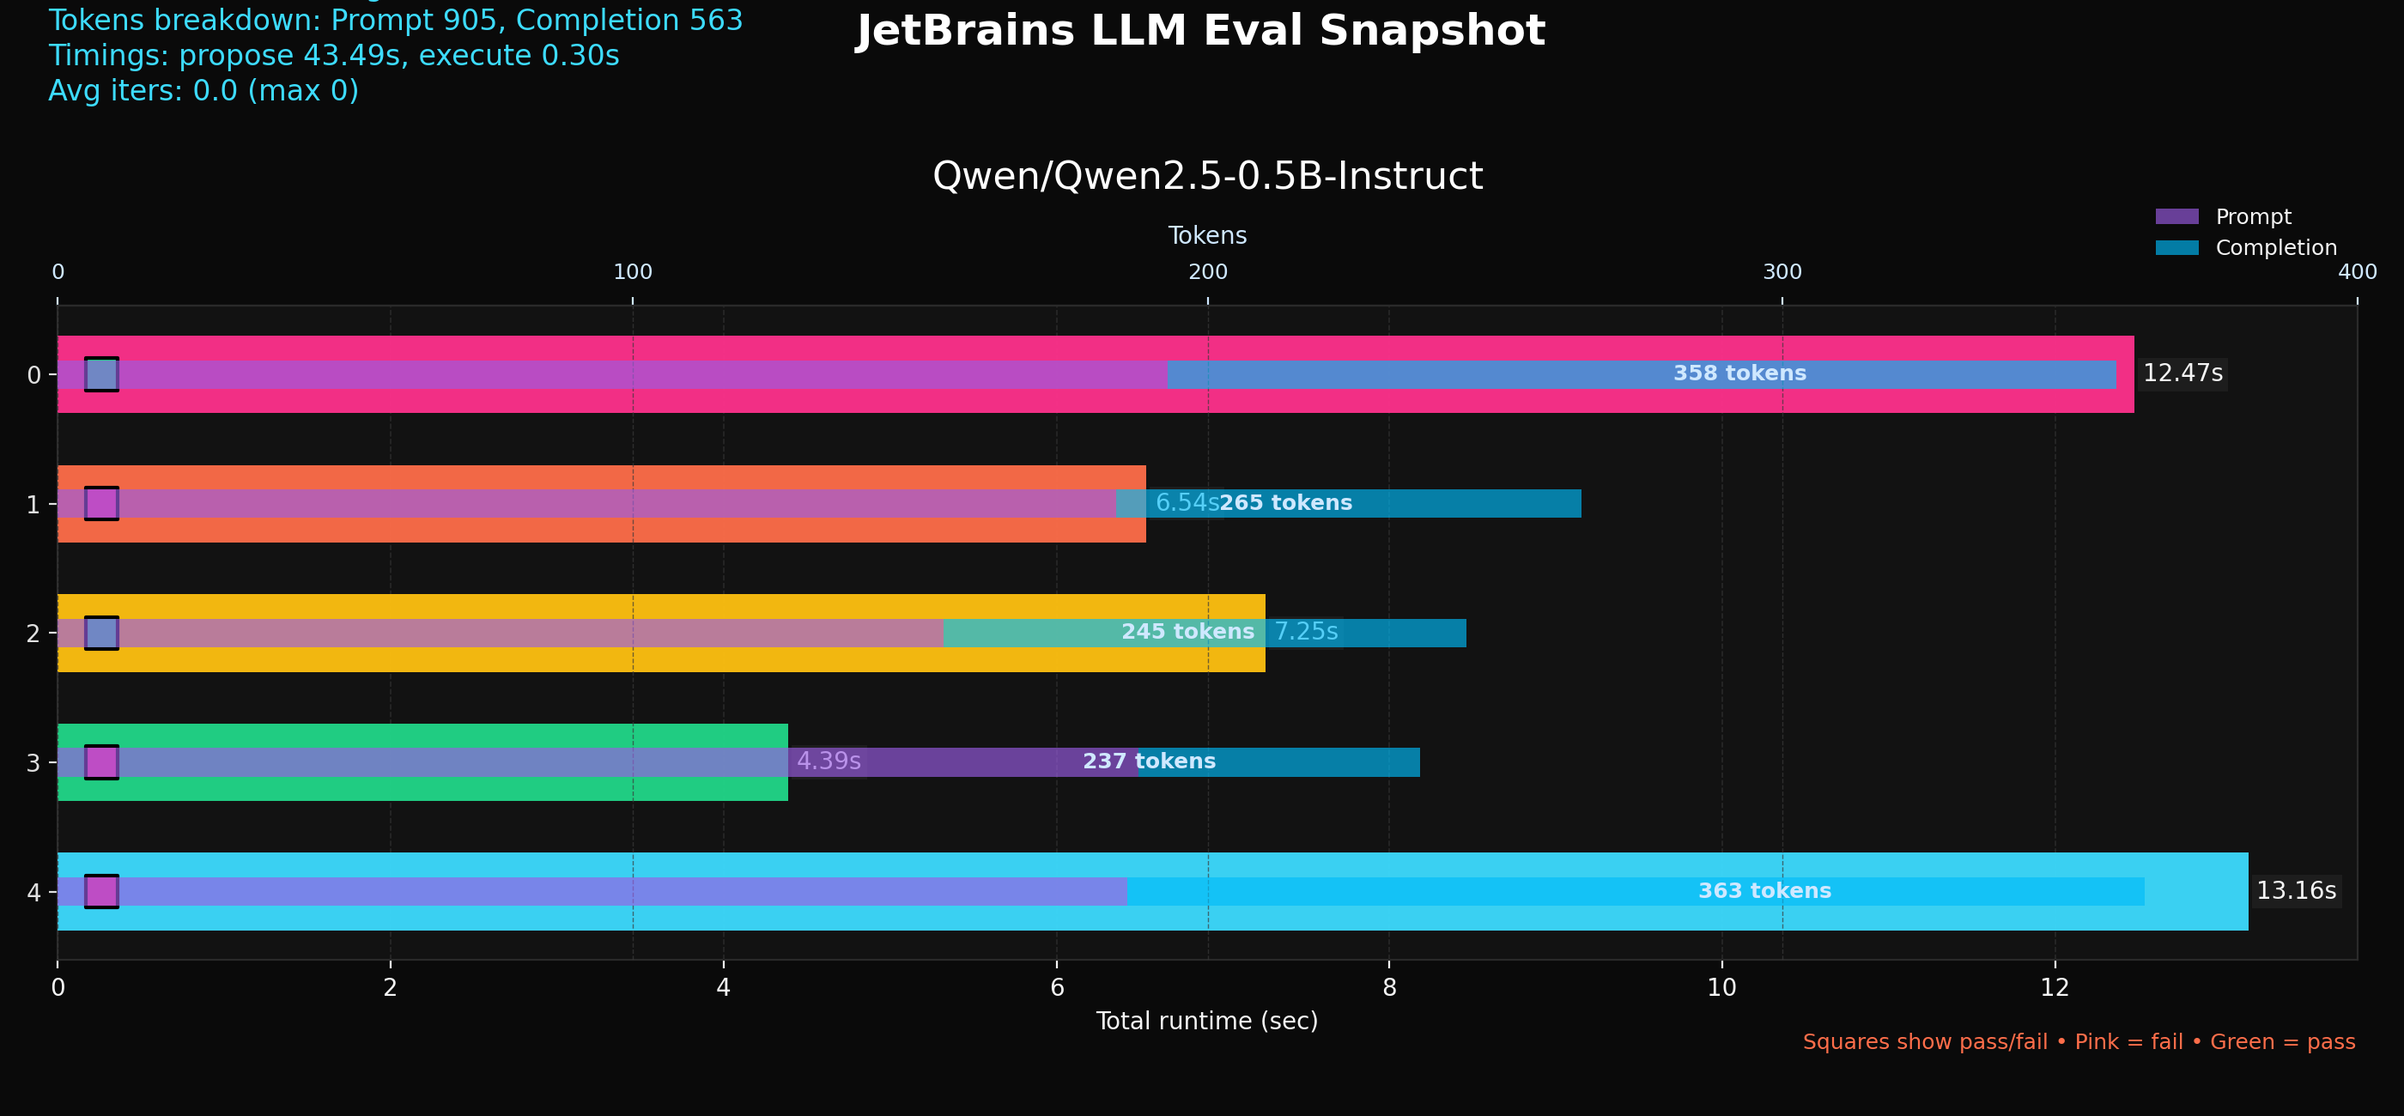
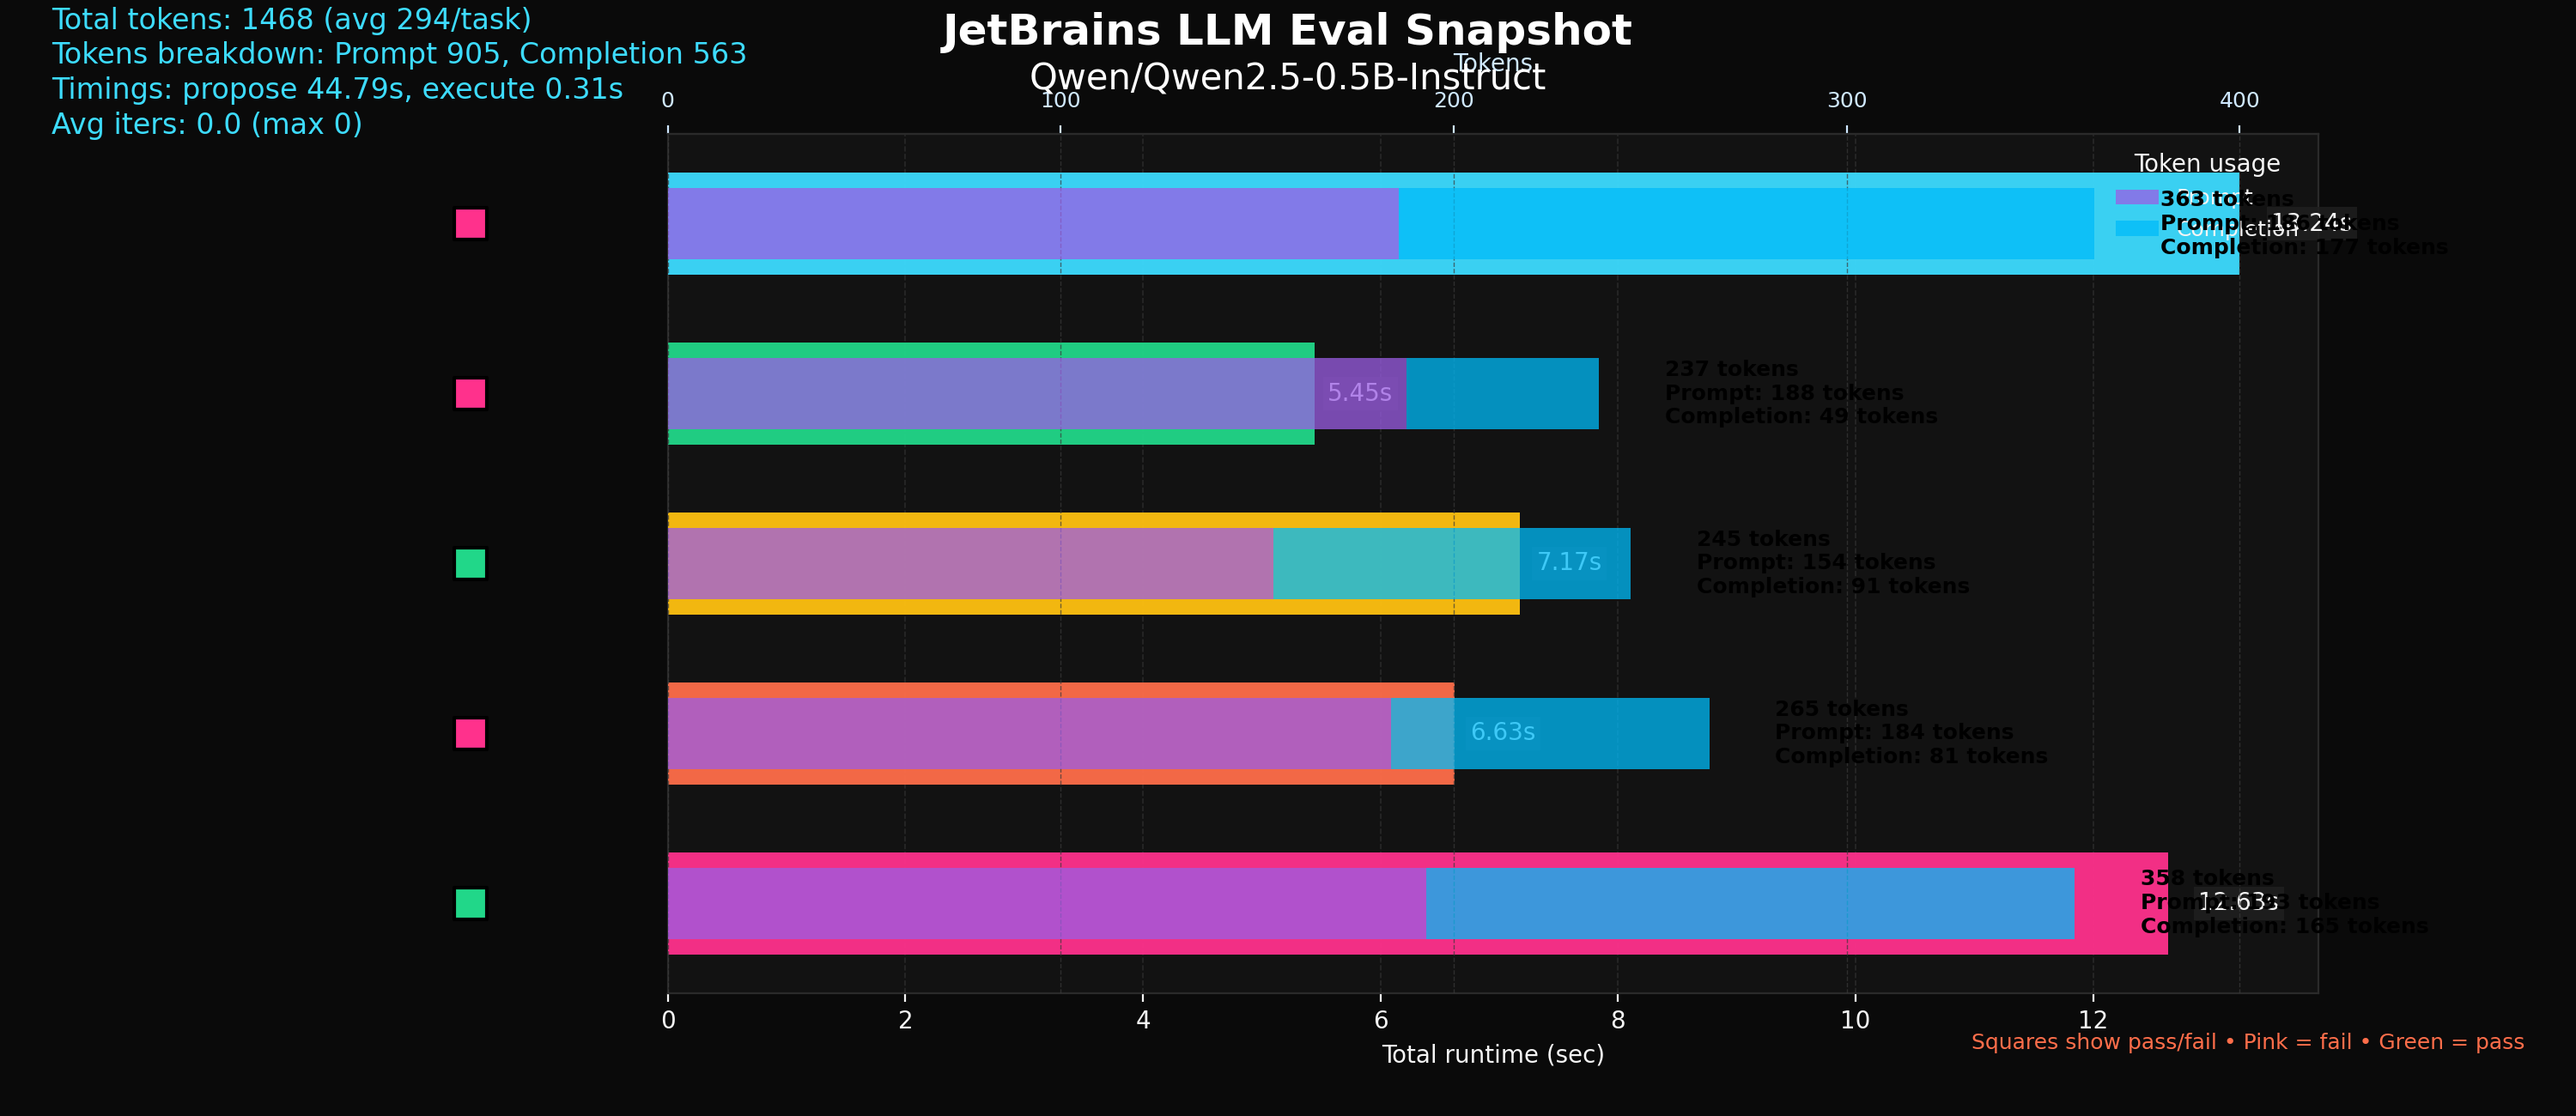
split the graph back into 2 for clarity

diff --git a/src/visualize_results.py b/src/visualize_results.py
@@ -108,43 +108,42 @@ def plot_results(
     color_cycle = build_color_cycle(len(task_ids))
     pass_colors = ["#21D789" if flag else "#FF318C" for flag in passed]
 
-    fig, ax_runtime = plt.subplots(
-        1,
-        1,
-        figsize=(14, 6.5),
-        facecolor=JETBRAINS_BACKGROUND,
-    )
+    fig = plt.figure(figsize=(15, 6.5), facecolor=JETBRAINS_BACKGROUND)
+    # Runtime and tokens share a canvas via twin axes; status markers sit on their own column.
+    grid = fig.add_gridspec(1, 2, width_ratios=[0.18, 1.0], wspace=0.05)
+    ax_runtime = fig.add_subplot(grid[1])
     ax_tokens = ax_runtime.twiny()
+    ax_status = fig.add_subplot(grid[0], sharey=ax_runtime)
 
     ax_runtime.set_facecolor(JETBRAINS_PANEL)
-    ax_runtime.tick_params(colors="#F5F5F5", axis="x")
     for spine in ax_runtime.spines.values():
         spine.set_color("#2A2A2A")
+    ax_runtime.tick_params(axis="x", colors="#F5F5F5")
+    ax_runtime.tick_params(axis="y", colors="#E0E0E0", labelsize=10)
 
+    ax_tokens.set_facecolor("none")
     ax_tokens.spines["top"].set_color("#2A2A2A")
     ax_tokens.spines["bottom"].set_visible(False)
     ax_tokens.spines["left"].set_visible(False)
     ax_tokens.spines["right"].set_visible(False)
+    ax_tokens.xaxis.set_ticks_position("top")
     ax_tokens.tick_params(axis="x", colors="#CFE8FF", labelsize=9, pad=6)
     ax_tokens.tick_params(axis="y", left=False, labelleft=False)
-    ax_tokens.xaxis.set_ticks_position("top")
-    ax_tokens.set_facecolor("none")
 
-    # Runtime bars with glow effect via shadowed patches
+    y_positions = list(range(len(task_ids)))
     bars = ax_runtime.barh(
-        task_ids,
+        y_positions,
         runtime,
         color=color_cycle,
         edgecolor="none",
         alpha=0.95,
         height=0.6,
         zorder=4,
+        align="center",
     )
     ax_runtime.set_xlabel("Total runtime (sec)", color="#F5F5F5")
-    if model_name:
-        ax_runtime.set_title(model_name, color="#FFFFFF", pad=15, fontsize=16)
-    else:
-        ax_runtime.set_title("", color="#FFFFFF", pad=15, fontsize=16)
+    ax_runtime.set_yticks(y_positions)
+    ax_runtime.set_yticklabels(task_ids)
     ax_runtime.invert_yaxis()
     ax_runtime.grid(
         True, axis="x", linestyle="--", linewidth=0.6, color="#2E2E2E", alpha=0.8
@@ -158,7 +157,7 @@ def plot_results(
             "edgecolor": "none",
         }
         ax_runtime.text(
-            bar.get_width() + 0.05,
+            bar.get_width() + max(bar.get_width() * 0.02, 0.05),
             bar.get_y() + bar.get_height() / 2,
             f"{runtime[idx]:.2f}s",
             va="center",
@@ -167,7 +166,7 @@ def plot_results(
             fontsize=10,
             bbox=text_box,
         )
-    # Token usage overlay on twin axis (stacked horizontal bars)
+
     token_axis_colors = ["#9B5DE5", "#00BBF9", "#FEE440", "#00F5D4"]
     token_keys = [
         ("propose_prompt_tokens", "Prompt"),
@@ -186,26 +185,43 @@ def plot_results(
     runtime_max = max(runtime) if runtime else 1.0
     if runtime_max <= 0:
         runtime_max = 1.0
-    token_ratio = 0.20
-    token_axis_target = runtime_max * token_ratio if runtime_max else 1.0
-    token_step = select_token_step(max_tokens_actual)
-    nice_max_tokens = (
-        token_step
-        if max_tokens_actual <= 0
-        else max(token_step, math.ceil(max_tokens_actual / token_step) * token_step)
-    )
-    if nice_max_tokens <= 0:
-        token_scale = 1.0
-    else:
-        token_scale = (
-            token_axis_target / nice_max_tokens if token_axis_target > 0 else 1.0
+    if max_tokens_actual > 0:
+        token_step = select_token_step(max_tokens_actual)
+        nice_max_tokens = max(
+            token_step, math.ceil(max_tokens_actual / token_step) * token_step
         )
-        token_scale = min(token_scale, 1.0)
+    else:
+        token_step = 10
+        nice_max_tokens = token_step
 
-    ticks_actual: List[int] = []
-    if nice_max_tokens > 0:
+    token_ratio = 0.35
+    token_axis_target = runtime_max * token_ratio
+    token_scale = token_axis_target / nice_max_tokens if nice_max_tokens else 0.0
+    token_scale = min(token_scale, 0.5)
+    token_axis_limit = token_axis_target * 1.05 if token_axis_target else 1.0
+    token_axis_limit = max(token_axis_limit, runtime_max * 0.12)
+
+    ax_tokens.set_xlim(0, token_axis_limit)
+    ax_tokens.set_xlabel("Tokens", color="#CFE8FF", labelpad=8)
+    ax_tokens.grid(
+        True, axis="x", linestyle="--", linewidth=0.5, color="#3A3A3A", alpha=0.7
+    )
+
+    if nice_max_tokens and token_scale > 0:
         ticks_actual = list(range(0, int(nice_max_tokens) + token_step, token_step))
-    ticks_scaled = [tick * token_scale for tick in ticks_actual]
+        ticks_scaled = [tick * token_scale for tick in ticks_actual]
+        ax_tokens.set_xticks(ticks_scaled)
+        ax_tokens.xaxis.set_major_formatter(
+            FuncFormatter(
+                lambda value, _: (
+                    f"{round((value / token_scale) / token_step) * token_step:,.0f}"
+                    if token_scale
+                    else "0"
+                )
+            )
+        )
+    else:
+        ax_tokens.set_xticks([])
 
     cumulative_scaled = [0.0 for _ in task_ids]
     for idx_key, (key, label) in enumerate(token_keys):
@@ -214,57 +230,72 @@ def plot_results(
             continue
         series_scaled = [value * token_scale for value in series_actual]
         ax_tokens.barh(
-            task_ids,
+            y_positions,
             series_scaled,
             left=cumulative_scaled,
             color=token_axis_colors[idx_key % len(token_axis_colors)],
             edgecolor="none",
-            alpha=0.65,
+            alpha=0.75,
+            height=0.42,
             label=label,
-            height=0.22,
             zorder=6,
+            align="center",
         )
         cumulative_scaled = [
             cum + scaled for cum, scaled in zip(cumulative_scaled, series_scaled)
         ]
 
-    scaled_totals = cumulative_scaled[:]
+    if ax_tokens.get_legend_handles_labels()[0]:
+        legend = ax_tokens.legend(
+            loc="upper right", frameon=False, fontsize=9, title="Token usage"
+        )
+        legend.get_title().set_color("#F5F5F5")
+        for text in legend.get_texts():
+            text.set_color("#F5F5F5")
 
-    if token_scale < 1.0:
-        token_axis_limit = token_axis_target
-    else:
-        token_axis_limit = (
-            max(ticks_scaled) * 1.05 if ticks_scaled else token_axis_target
+    scaled_totals = [value * token_scale for value in task_token_totals]
+    for idx_task, total_tokens in enumerate(task_token_totals):
+        prompt_total = float(
+            token_usage[idx_task].get("propose_prompt_tokens", 0.0)
+        ) + float(token_usage[idx_task].get("reflect_prompt_tokens", 0.0))
+        completion_total = float(
+            token_usage[idx_task].get("propose_completion_tokens", 0.0)
+        ) + float(token_usage[idx_task].get("reflect_completion_tokens", 0.0))
+        scaled_total = scaled_totals[idx_task]
+        axis_limit = ax_tokens.get_xlim()[1]
+        base_offset = axis_limit * 0.04
+        text_x = min(
+            max(scaled_total + base_offset, axis_limit * 0.12), axis_limit * 0.95
         )
-        token_axis_limit = (
-            min(token_axis_limit, token_axis_target)
-            if token_axis_target
-            else token_axis_limit
+        annotation = "\n".join(
+            [
+                format_token_annotation(total_tokens),
+                f"Prompt: {format_token_annotation(prompt_total)}",
+                f"Completion: {format_token_annotation(completion_total)}",
+            ]
         )
-    token_axis_limit = token_axis_limit or (
-        runtime_max * token_ratio if runtime_max else 1.0
-    )
-    ax_tokens.set_xlim(0, token_axis_limit)
-    ax_tokens.set_xlabel("Tokens", color="#CFE8FF", labelpad=8)
-    ax_tokens.grid(
-        True, axis="x", linestyle="--", linewidth=0.5, color="#3A3A3A", alpha=0.7
-    )
-    if ticks_scaled and token_scale > 0:
-        ax_tokens.set_xticks(ticks_scaled)
-        ax_tokens.xaxis.set_major_formatter(
-            FuncFormatter(
-                lambda value,
-                _: f"{round((value / token_scale) / token_step) * token_step:,.0f}"
-            )
+        ax_tokens.text(
+            text_x,
+            y_positions[idx_task],
+            annotation,
+            va="center",
+            ha="left",
+            color="#000000",
+            fontsize=9,
+            fontweight="bold",
+            zorder=8,
         )
 
-    # Pass/fail accent markers layered atop tokens
-    max_runtime = max(runtime) if runtime else 1.0
-    if max_runtime <= 0:
-        max_runtime = 1.0
+    # Dedicated axis keeps pass/fail squares clear of the runtime bars.
+    ax_status.set_facecolor("none")
+    for spine in ax_status.spines.values():
+        spine.set_visible(False)
+    ax_status.set_xticks([])
+    ax_status.set_yticks([])
+    ax_status.set_xlim(-0.6, 0.6)
     marker_y = [bar.get_y() + bar.get_height() / 2 for bar in bars]
-    ax_runtime.scatter(
-        [0.02 * max_runtime for _ in task_ids],
+    ax_status.scatter(
+        [0.0 for _ in marker_y],
         marker_y,
         s=180,
         c=pass_colors,
@@ -274,19 +305,10 @@ def plot_results(
         zorder=30,
         clip_on=False,
     )
-
-    legend = ax_tokens.legend(
-        loc="upper right",
-        bbox_to_anchor=(1.0, 1.18),
-        frameon=False,
-        fontsize=9,
-    )
-    if legend:
-        for text in legend.get_texts():
-            text.set_color("#F5F5F5")
-
-    # Align y-axis labels for clarity
-    ax_runtime.tick_params(axis="y", colors="#E0E0E0", labelsize=10)
+    ax_status.invert_yaxis()
+    runtime_ylim = ax_runtime.get_ylim()
+    ax_tokens.set_ylim(runtime_ylim)
+    ax_status.set_ylim(runtime_ylim)
 
     pass_rate = sum(passed) / len(passed) if passed else 0.0
     total_runtime = sum(runtime)
@@ -311,21 +333,14 @@ def plot_results(
                 timing_totals[key] += float(entry.get(key, 0.0))
     timing_totals = {k: v for k, v in timing_totals.items() if v}
 
-    details_lines = []
-    if model_name:
-        details_lines.append(model_name)
-    else:
-        details_lines.append("Model not provided")
-    details_lines.extend(
-        [
-            f"Tasks evaluated: {len(task_ids)}",
-            f"Pass rate: {pass_rate:.0%}",
-            f"Total runtime: {total_runtime:.2f}s",
-            f"Avg runtime: {avg_runtime:.2f}s",
-            f"Passed: {total_pass}  Failed: {total_fail}",
-            f"Total tokens: {total_tokens:.0f} (avg {avg_tokens:.0f}/task)",
-        ]
-    )
+    details_lines = [
+        f"Tasks evaluated: {len(task_ids)}",
+        f"Pass rate: {pass_rate:.0%}",
+        f"Total runtime: {total_runtime:.2f}s",
+        f"Avg runtime: {avg_runtime:.2f}s",
+        f"Passed: {total_pass}  Failed: {total_fail}",
+        f"Total tokens: {total_tokens:.0f} (avg {avg_tokens:.0f}/task)",
+    ]
     if total_tokens > 0:
         details_lines.append(
             "Tokens breakdown: "
@@ -347,29 +362,7 @@ def plot_results(
     if iters:
         details_lines.append(f"Avg iters: {avg_iters:.1f} (max {max_iters})")
 
-    # Token value annotations
-    if token_scale > 0:
-        axis_limit = ax_tokens.get_xlim()[1]
-        for idx_task, total_tokens in enumerate(task_token_totals):
-            if total_tokens <= 0:
-                continue
-            scaled_total = scaled_totals[idx_task]
-            if scaled_total <= 0:
-                continue
-            inset_offset = max(axis_limit * 0.03, scaled_total * 0.15)
-            x_pos = max(scaled_total - inset_offset, scaled_total * 0.55)
-            ax_tokens.text(
-                x_pos,
-                idx_task,
-                format_token_annotation(total_tokens),
-                va="center",
-                ha="right",
-                color="#0B0B0B",
-                fontsize=9,
-                fontweight="bold",
-                zorder=8,
-            )
-
+    model_banner = model_name if model_name else "Model not provided"
     fig.text(
         0.5,
         0.96,
@@ -380,8 +373,16 @@ def plot_results(
         ha="center",
     )
     fig.text(
+        0.5,
+        0.92,
+        model_banner,
+        color="#FFFFFF",
+        fontsize=15,
+        ha="center",
+    )
+    fig.text(
         0.02,
-        0.91,
+        0.88,
         "\n".join(details_lines),
         color="#3DDCFF",
         fontsize=12,
